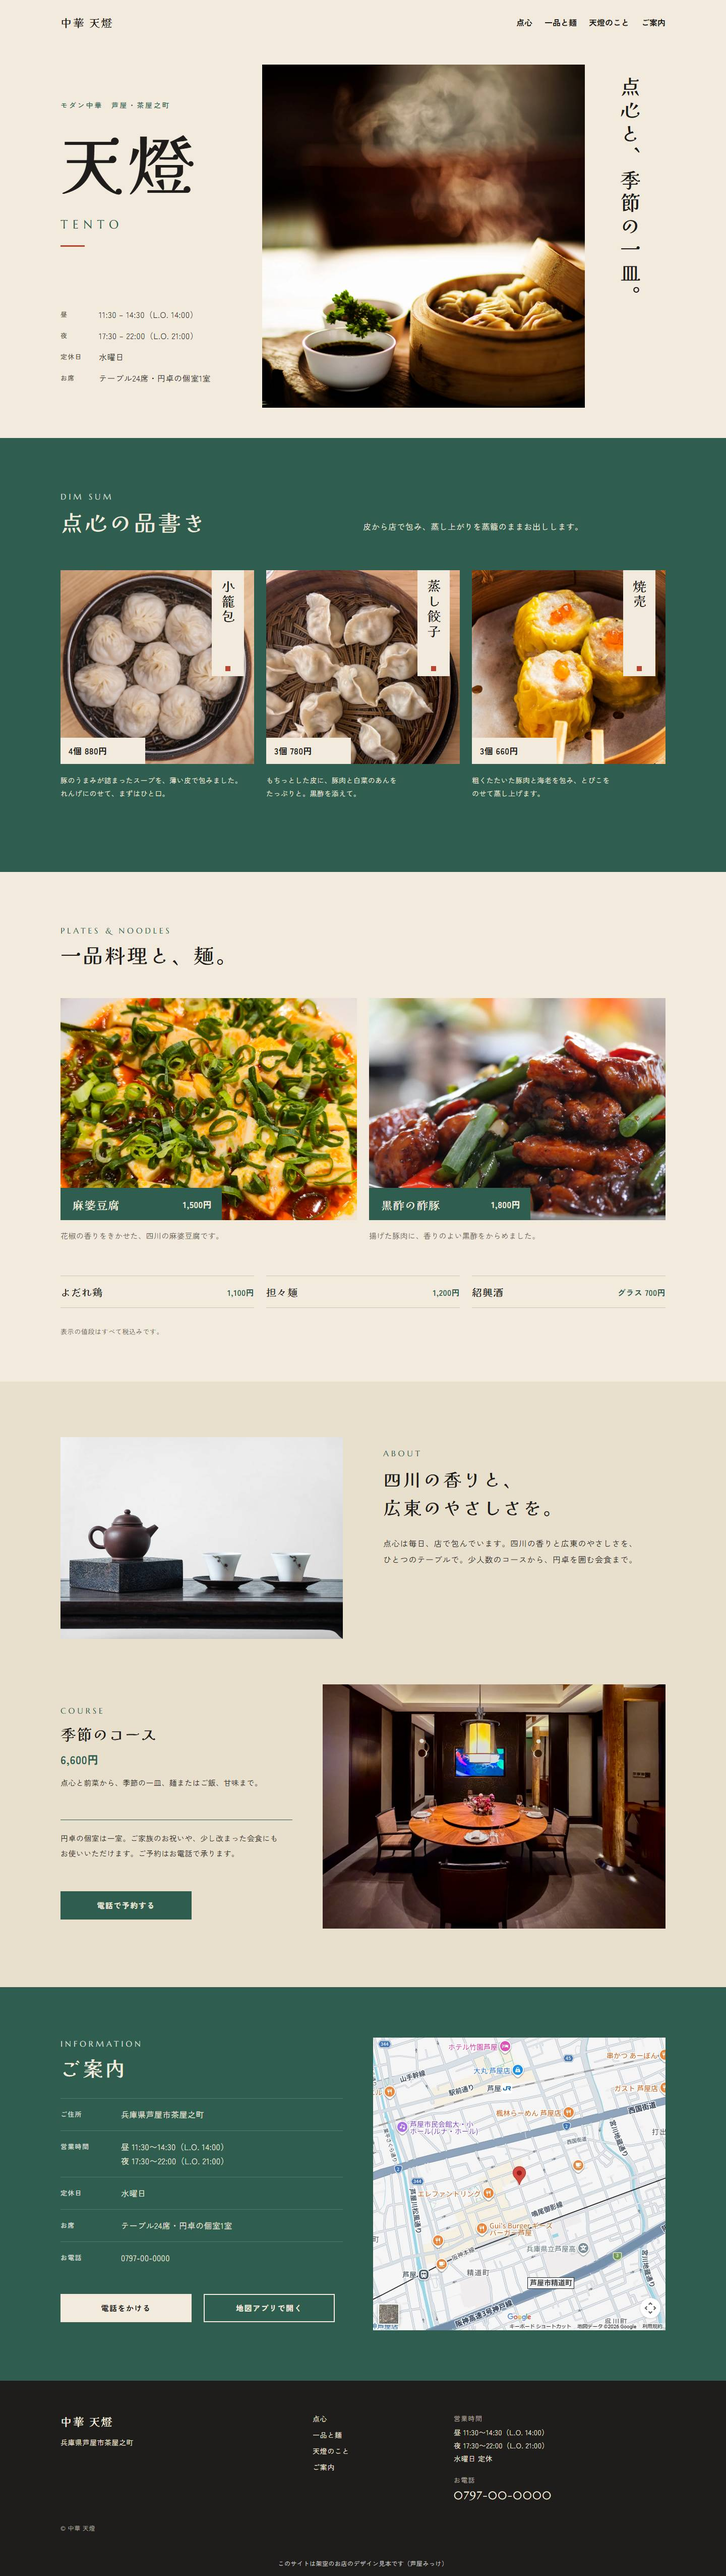
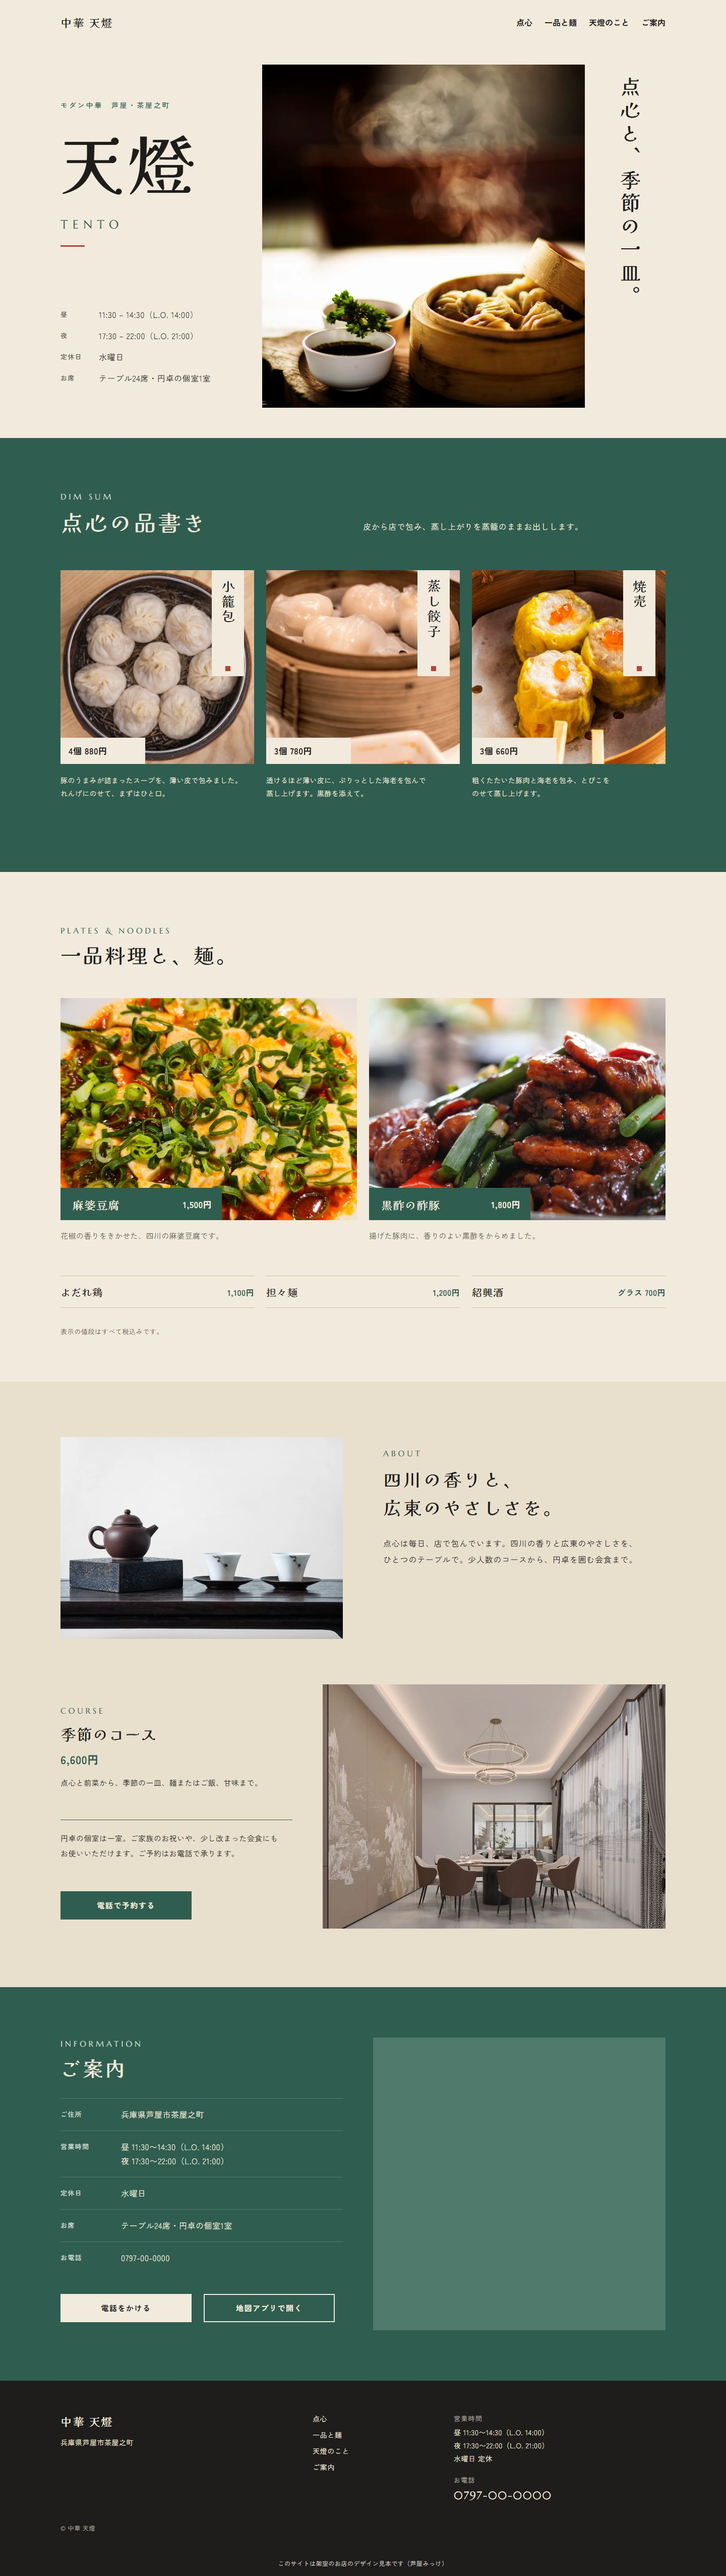
ギャラリー：中華 天燈 の写真を直す（G044・wa-18）
- d2 蒸し餃子：EIBi5qVrMqo → ueLr65yEd6U（皮の透けた海老の蒸し餃子を蒸籠で、横から。彩度を少し下げた）
- rm 円卓の個室：DKxbjOa4hd0 → EQvUkUyB6Ao（テレビの無い、山水画の壁と円卓の個室）
- 説明文（alt）・蒸し餃子の説明・SPEC の写真の表・写真台帳・点検画像

Claude-Session: https://claude.ai/code/session_016LALj5VuzPyysm2EBxPU54

Changed region(s): [[0.5, 0.7786, 0.9375, 0.9032], [0.4375, 0.6541, 0.9375, 0.7475], [0.3438, 0.218, 0.6562, 0.3115]]

diff --git a/templates/wa-18/SPEC.md b/templates/wa-18/SPEC.md
@@ -59,12 +59,12 @@ G034「中華 天燈」（架空のモダン中華の店）の型。実測は `r
 | 枠 | 場所 | 中身 |
 |---|---|---|
 | fv | 最初の画面 | 湯気の立つ蒸籠の点心と、たれの小皿（品名は付けない） |
-| d1・d2・d3 | 点心の品書き | 小籠包（上から）／蒸し餃子（上から）／焼売（斜め上から、とびこ） |
+| d1・d2・d3 | 点心の品書き | 小籠包（上から）／蒸し餃子（皮の透けた海老の蒸し餃子を横から。G044 で差し替え、彩度を少し下げた）／焼売（斜め上から、とびこ） |
 | p1・p2 | 一品料理と麺 | 麻婆豆腐／黒酢の酢豚 |
 | ab | 天燈のこと | 急須と二つの茶杯 |
-| rm | 季節のコース | 回転台のある円卓の個室 |
+| rm | 季節のコース | 山水画の壁と円卓の個室（テレビの無い物。G044 で差し替え） |
 
-切り抜き（`rect`）で外した物：fv の右の手と蒸籠のふた、d2 の右の醤油差しと文字の入った皿、d3 の文字の入ったポスターの背景、p1 の奥の缶。
+切り抜き（`rect`）で外した物：fv の右の手と蒸籠のふた、d2 の左手前の揚げ物の皿（大半）、rm の天井の照明の上側、d3 の文字の入ったポスターの背景、p1 の奥の缶。
 
 ## 8. 開いた切り抜きと理由
 参考の画像は開いていない（`report.md` と `menu.json` の数値だけ）。
